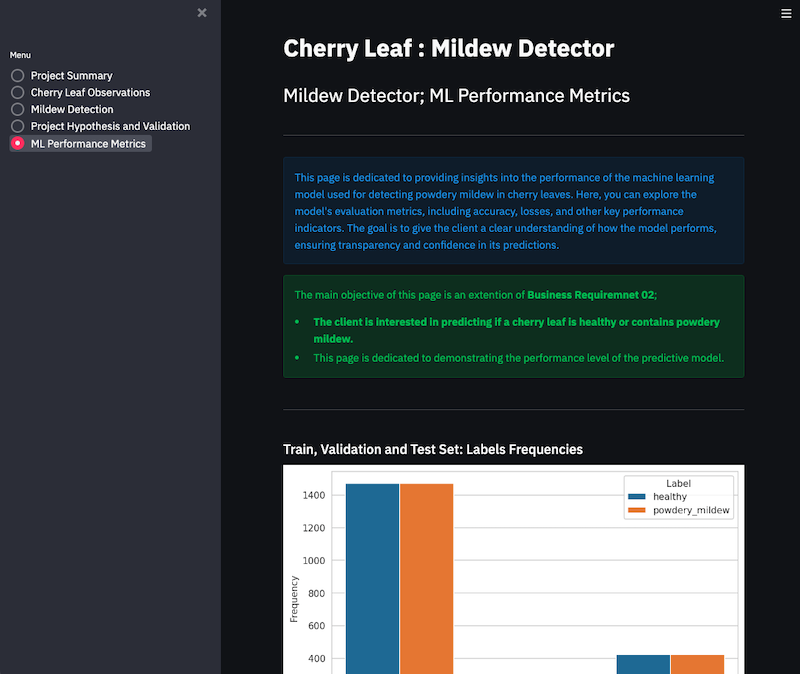
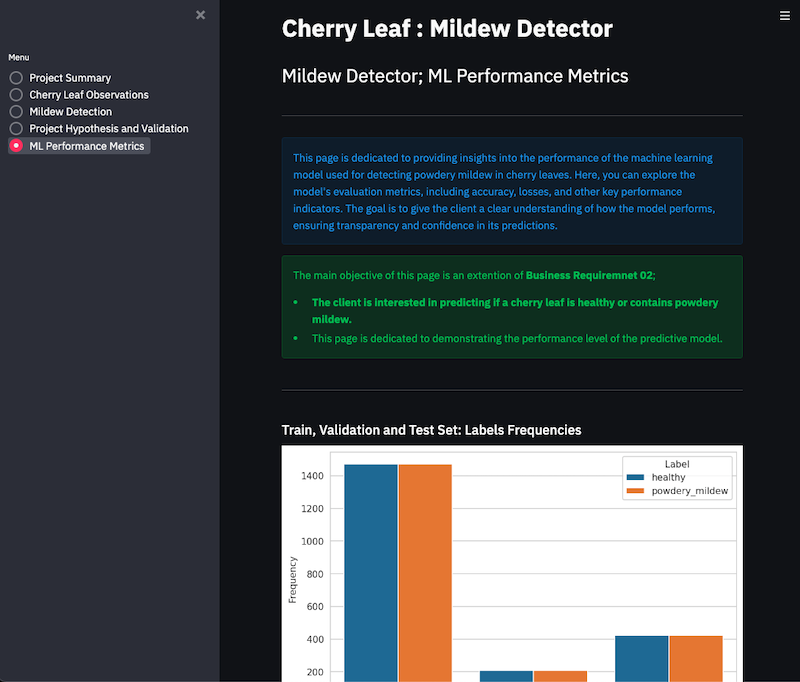
adjusting the readme file

diff --git a/app_pages/page_ml_performance.py b/app_pages/page_ml_performance.py
@@ -28,6 +28,15 @@ def page_ml_performance_metrics():
 
     labels_distribution = plt.imread(f"outputs/{version}/labels_distribution.png")
     st.image(labels_distribution, caption='Labels Distribution on Train, Validation and Test Sets')
+    st.warning(
+        f"The graph displays the distribution of labels across the train, validation, and test sets. Specifically:\n"
+        f"* **Train Set**: 1472 images of healthy cherry leaves and 1472 images of cherry leaves with powdery mildew.\n"
+        f"* **Validation Set**: 210 images of healthy cherry leaves and 210 images of cherry leaves with powdery mildew.\n"
+        f"* **Test Set**: 422 images of healthy cherry leaves and 422 images of cherry leaves with powdery mildew.\n\n"
+        f"This data distribution ensures a balanced representation of both classes across all datasets, with an equal ratio of healthy "
+        f"to infected images in each set, which is crucial for training and evaluating the performance of the model effectively."
+    )
+
     st.write("---")
 
 
@@ -36,9 +45,21 @@ def page_ml_performance_metrics():
     with col1: 
         model_acc = plt.imread(f"outputs/{version}/model_training_acc.png")
         st.image(model_acc, caption='Model Training Accuracy')
+        st.warning(
+        f"* The graph displays the model's **Training Accuracy** over epochs.\n" 
+        f"* Note that while the overall accuracy might seem high, there is evidence of fluxenation in the data.\n"
+        f"* This fluctuation is more thoroughly discussed in the '**7.0 - Unfixed Bugs**' section "
+        f"of the README file, which can be found [here](https://github.com/GabrielH-02/Mildew-Detection-CL)."
+        )
     with col2:
         model_loss = plt.imread(f"outputs/{version}/model_training_losses.png")
         st.image(model_loss, caption='Model Training Losses')
+        st.warning(
+        f"* The graph illustrates the **Training Losses** throughout the training process.\n"
+        f"* Similar to the accuracy graph, there is a noticeable fluxenation in the data.\n"
+        f"* Detailed explanations about these variations can be found in the '**7.0 - Unfixed Bugs**' section "
+        f"of the README file, available [here](https://github.com/GabrielH-02/Mildew-Detection-CL)."
+        )
     st.write("---")
 
     st.write("### Generalised Performance on Test Set")

diff --git a/README.md b/README.md
@@ -1,8 +1,8 @@
-# **Mildrew Detection:** Cherry Leaves
+# **Mildew Detection: Cherry Leaves**
 
-The **Mildew Detection**: Cherry Leaves, app is designed to determine the health status of cherry leaves by identifying whether they are healthy or infected with powdery mildew. By analyzing an image of a cherry leaf, the app provides a prediction regarding its condition.
+The **Mildew Detection: Cherry Leaves** app determines the health status of cherry leaves by identifying whether they are healthy or infected with powdery mildew. By analyzing an image of a cherry leaf, the app provides a prediction regarding its condition.
 
-This application is powered by a supervised machine learning model that employs single-label binary classification. The binary classifier is used to categorize the leaf as either healthy or infected with powdery mildew based on the image analysis.
+This application is powered by a supervised machine learning model that employs single-label binary classification. The binary classifier categorizes the leaf as either healthy or infected with powdery mildew based on the image analysis.
 
 ![responsive-image](documentation/00-responsive-design.png)
 
@@ -10,47 +10,46 @@ The project can be viewed live [here]()
 
 ## 1.0 - Dataset Content
 
-- The dataset is sourced from [Kaggle](https://www.kaggle.com/codeinstitute/cherry-leaves). This dataset was provided by Code Institute. 
-- The dataset contains +4 thousand images taken from the client's crop fields. The images show healthy cherry leaves and cherry leaves that have powdery mildew, a fungal disease that affects many plant species. The cherry plantation crop is one of the finest products in their portfolio, and the company is concerned about supplying the market with a compromised quality product.
+- The dataset is sourced from [Kaggle](https://www.kaggle.com/codeinstitute/cherry-leaves). This dataset was provided by Code Institute.
+- The dataset contains over 4,000 images from the client's crop fields, depicting both healthy cherry leaves and those infected with powdery mildew—a fungal disease affecting many plant species. The cherry plantation crop is one of the finest products in their portfolio, and the company is concerned about supplying the market with a compromised-quality product.
 
 ## 2.0 - Business Requirements
 
-The cherry plantation crop from Farmy & Foods is facing a challenge where their cherry plantations have been presenting powdery mildew. Currently, the process is manual verification if a given cherry tree contains powdery mildew. An employee spends around 30 minutes in each tree, taking a few samples of tree leaves and verifying visually if the leaf tree is healthy or has powdery mildew. If there is powdery mildew, the employee applies a specific compound to kill the fungus. The time spent applying this compound is 1 minute. The company has thousands of cherry trees located on multiple farms across the country. As a result, this manual process is not scalable due to the time spent in the manual process inspection.
+Farmy & Foods' cherry plantations are facing a challenge with the presence of powdery mildew. Currently, the process involves manual verification to determine if a given cherry tree contains powdery mildew. An employee spends around 30 minutes per tree taking a few samples of leaves and visually verifying if the tree is healthy or has powdery mildew. If powdery mildew is detected, the employee applies a specific compound to eliminate the fungus, which takes about a minute. The company has thousands of cherry trees located on multiple farms across the country. As a result, this manual process is not scalable due to the time spent on inspection.
 
-To save time in this process, the IT team suggested an ML system that detects instantly, using a leaf tree image, if it is healthy or has powdery mildew. A similar manual process is in place for other crops for detecting pests, and if this initiative is successful, there is a realistic chance to replicate this project for all other crops. The dataset is a collection of cherry leaf images provided by Farmy & Foods, taken from their crops.
+To save time in this process, the IT team suggested an ML system that detects instantly, using an image of the leaf, whether it is healthy or has powdery mildew. A similar manual process is in place for other crops for detecting pests, and if this initiative is successful, there is a realistic chance to replicate this project for all other crops. The dataset is a collection of cherry leaf images provided by Farmy & Foods, taken from their crops.
 
-- 1 - The client is interested in conducting a study to visually differentiate a healthy cherry leaf from one with powdery mildew.
-- 2 - The client is interested in predicting if a cherry leaf is healthy or contains powdery mildew.
+1. **The client is interested in conducting a study to visually differentiate a healthy cherry leaf from one with powdery mildew.**
+2. **The client is interested in predicting if a cherry leaf is healthy or contains powdery mildew.**
 
 ## 3.0 - Hypothesis and Validation
 
 ### 3.1 - Hypothesis
 
-We suspect that cherry leaves infected with powdery mildew have distinct visual characteristics, such as a white powdery appearance, that differentiate them from healthy leaves.
+We hypothesize that cherry leaves infected with powdery mildew exhibit distinct visual characteristics, such as a white, powdery appearance, differentiating them from healthy leaves.
 
 ### 3.2 - How to Validate?
 
-- By applying a study showing how to visually differentiate a cherry leaf that is healthy from one that contains powdery mildew.
-- As well as the capability to predict if a cherry leaf is healthy or contains powdery mildew.
+- By conducting a study that shows how to visually differentiate a healthy cherry leaf from one that contains powdery mildew.
+- By assessing the capability to predict if a cherry leaf is healthy or contains powdery mildew.
 
-An Image Montage indicates that infected leaves typically display a white, powdery surface. Studies involving Average Image, Variability Image, and Difference between Averages analyses
-are expected to reveal distinguishing patterns that differentiate healthy leaves from those affected by powdery mildew.
+An image montage suggests that infected leaves typically show a white, powdery surface. Studies involving average image analysis, variability analysis, and differences between averages are expected to reveal patterns that distinguish healthy leaves from those affected by powdery mildew.
 
-## 4.0 - The rationale to map the business requirements to the Data Visualisations and ML tasks
+## 4.0 - The Rationale for Mapping the Business Requirements to Data Visualizations and ML Tasks
 
-### 4.1 - Business Requirements Rationales 
+### 4.1 - Business Requirements Rationale
 
 **Business Requirement 1:** The client is interested in conducting a study to visually differentiate a healthy cherry leaf from one with powdery mildew.
 
-This requirement is focused on visual analysis, involving the creation of various data visualisations. Tasks include data collection, image analysis, and generating visual representations to help the client observe differences between healthy and infected leaves. Therefore this requirement can be labelled as **Data Visualization**.
+This requirement is focused on visual analysis, involving the creation of various data visualizations. Tasks include data collection, image analysis, and generating visual representations to help the client observe differences between healthy and infected leaves. Therefore, this requirement can be labeled as **Data Visualization**.
 
 **Business Requirement 2:** The client is interested in predicting if a cherry leaf is healthy or contains powdery mildew.
 
-This requirement targets predictive modelling, which involves machine learning. Tasks related to this include developing and training a classification model, optimising it for accuracy, and validating its performance to ensure accurate predictions as per the client's needs. Therefore this requirement can be labelled as **Classification**.
+This requirement targets predictive modeling, which involves machine learning. Tasks related to this include developing and training a classification model, optimizing it for accuracy, and validating its performance to ensure accurate predictions as per the client's needs. Therefore, this requirement can be labeled as **Classification**.
 
 ### 4.2 - Epics and Tasks
 
-As a collective of these two objectives, the project can be broken down into five different epics, which are listed below with an addition of tasks which need to be done for each epic.
+As a collective of these two objectives, the project can be broken down into five different epics, which are listed below along with the tasks that need to be completed for each epic.
 
 #### 4.2.1 - Information Gathering and Data Collection
 
@@ -60,7 +59,7 @@ This epic focuses on understanding the client's needs and gathering the necessar
 
 #### 4.2.2 - Data Visualization, Cleaning, and Preparation
 
-This epic deals with processing the gathered data to ensure it is properly prepared for effective modelling. It is also focused on **Data Visualization**.
+This epic deals with processing the gathered data to ensure it is properly prepared for effective modeling. It is also focused on **Data Visualization**.
 
 - **Task 2:** Analyze the data to ensure each image is the same size. Split the dataset into training, testing, and validation sets.
 - **Task 3:** Create visual data representations for the client, including average images, variability images, and image montages (for both healthy and infected leaves). Completing this task will satisfy **Business Requirement 1**.
@@ -69,14 +68,14 @@ This epic deals with processing the gathered data to ensure it is properly prepa
 
 This epic is concerned with the model, ensuring it meets the necessary standards and can classify whether a leaf image is infected with powdery mildew. It is focused on the **Classification** objective.
 
-- **Task 4:** Develop and train a classification neural network on the provided dataset. Optimise the model to achieve a minimum accuracy of at least 97%.
-- **Task 5:** Validate the model and analyse its performance, ensuring it meets the client's goals and requirements.
+- **Task 4:** Develop and train a classification neural network on the provided dataset. Optimize the model to achieve a minimum accuracy of at least 97%.
+- **Task 5:** Validate the model and analyze its performance, ensuring it meets the client's goals and requirements.
 
 #### 4.2.4 - Dashboard Planning, Design, and Development
 
 This epic addresses how the observations and predictive interface will be presented to the client, with a focus on both **Data Visualization** and **Classification**. It leans more towards Data Visualization but also includes the creation of an interface for leaf health prediction.
 
-- **Task 6:** Design and develop a dashboard using Streamlit, meeting the client's requirements. The dashboard should include a project summary, hypothesis, machine learning performance metrics, leaf observations, and an interactive predictive interface for testing. It should fulfil both business requirements and be sufficiently interactive.
+- **Task 6:** Design and develop a dashboard using Streamlit, meeting the client's requirements. The dashboard should include a project summary, hypothesis, machine learning performance metrics, leaf observations, and an interactive predictive interface for testing. It should fulfill both business requirements and be sufficiently interactive.
 
 #### 4.2.5 - Dashboard Deployment and Release
 
@@ -84,56 +83,58 @@ This epic focuses on the deployment and execution of the project, ensuring that 
 
 - **Task 7:** Deploy the dashboard to an appropriate hosting platform (such as Heroku) so that the client can access the project. Ensure that access to the dashboard is restricted to the client, in compliance with the NDA.
 
-
 ## 5.0 - ML Business Case
 
 ### 5.1 - Business Objectives
 
 Farmy & Foods aims to enhance the quality assurance process of their cherry plantations by addressing the challenge of powdery mildew found on the cherry leaves, which affects their crops. As established, there are two business requirements; however, here are the key business objectives for this machine learning (ML) project:
 
-1. **Automate Mildew Detection**: Reduce dependency on manual labour for inspecting cherry leaves by implementing an automated solution that uses machine learning to detect powdery mildew.
+1. **Automate Mildew Detection:** Reduce dependency on manual labor for inspecting cherry leaves by implementing an automated solution that uses machine learning to detect powdery mildew.
 
-2. **Improve Crop Quality**: Ensure that only healthy, mildew-free cherries reach the market, thereby maintaining the brand's reputation for quality and reducing the risk of customer dissatisfaction.
+2. **Improve Crop Quality:** Ensure that only healthy, mildew-free cherries reach the market, thereby maintaining the brand's reputation for quality and reducing the risk of customer dissatisfaction.
 
-3. **Optimise Operational Efficiency**: Streamline the inspection process across multiple farms, saving time and resources while improving scalability.
+3. **Optimize Operational Efficiency:** Streamline the inspection process across multiple farms, saving time and resources while improving scalability.
 
 ### 5.2 - Business Benefits
 
 Based on meeting the Business Objectives, the successful implementation of this ML project is expected to deliver the following business benefits:
 
-1. **Increased Productivity**: Automating the inspection process will allow Farmy & Foods to monitor more trees in less time, freeing up employees to focus on other critical tasks.
+1. **Increased Productivity:** Automating the inspection process will allow Farmy & Foods to monitor more trees in less time, freeing up employees to focus on other critical tasks.
 
-2. **Cost Reduction**: By reducing the need for extensive manual inspections and minimising crop loss due to undetected mildew, the company will achieve significant cost savings.
+2. **Cost Reduction:** By reducing the need for extensive manual inspections and minimizing crop loss due to undetected mildew, the company will achieve significant cost savings.
 
-3. **Enhanced Decision-Making**: The data-driven approach will provide actionable insights, allowing Farmy & Foods to make informed decisions about crop management and mildew prevention.
+3. **Enhanced Decision-Making:** The data-driven approach will provide actionable insights, allowing Farmy & Foods to make informed decisions about crop management and mildew prevention.
 
-4. **Market Differentiation**: Ensuring that only the highest-quality produce reaches the market will strengthen the company’s position as a premium brand, enhancing customer trust and loyalty.
+4. **Market Differentiation:** Ensuring that only the highest-quality produce reaches the market will strengthen the company’s position as a premium brand, enhancing customer trust and loyalty.
 
 ### 5.3 - Business Risks and Mitigation
 
 #### Risk 1: Model Accuracy and Reliability
-- **Risk**: The ML model may not achieve the desired level of accuracy (97%), leading to incorrect classifications of cherry leaves and potential crop losses.
+- **Risk:** The ML model may not achieve the desired level of accuracy (97%), leading to incorrect classifications of cherry leaves and potential crop losses.
 
-- **Mitigation**: To mitigate this risk, rigorous model validation and tuning will be undertaken, including cross-validation and testing on unseen data. The model will only be deployed once it consistently meets or exceeds the 97% accuracy threshold.
+- **Mitigation:** To mitigate this risk, rigorous model validation and tuning will be undertaken, including cross-validation and testing on unseen data. The model will only be deployed once it consistently meets or exceeds the 97% accuracy threshold.
 
 #### Risk 2: Resistance to Technological Change
-- **Risk**: Employees may resist adopting the new technology due to unfamiliarity with machine learning and fear of job displacement.
+- **Risk:** Employees may resist adopting the new technology due to unfamiliarity with machine learning and fear of job displacement.
 
-- **Mitigation**: Comprehensive training programmes and workshops will be provided to ensure employees are comfortable using the new system. Emphasising the role of technology in augmenting rather than replacing human labour will help ease the transition.
+- **Mitigation:** Comprehensive training programs and workshops will be provided to ensure employees are comfortable using the new system. Emphasizing the role of technology in augmenting rather than replacing human labor will help ease the transition.
 
 #### Risk 3: Data Privacy and Security
-- **Risk**: The data provided by the client is under an NDA (Non-Disclosure Agreement), which imposes strict limitations on data sharing and usage.
+- **Risk:** The data provided by the client is under an NDA (Non-Disclosure Agreement), which imposes strict limitations on data sharing and usage.
 
-- **Mitigation**: Access to the data will be restricted to authorised personnel only. All project participants will be briefed on the NDA terms, and data handling protocols will be established to ensure compliance with the agreement.
+- **Mitigation:** Access to the data will be restricted to authorized personnel only. All project participants will be briefed on the NDA terms, and data handling protocols will be established to ensure compliance with the agreement.
 
 #### Risk 4: Model Deployment and Integration
-- **Risk**: The model’s large size, due to high-resolution images, may complicate deployment and integration into existing systems.
+- **Risk:** The model's large size, resulting from high-resolution images, may complicate deployment and integration into existing systems.
 
-- **Mitigation**: Image resolution will be adjusted to balance model performance and size. Additionally, Git LFS (Large File Storage) will be used for managing large files, ensuring smooth integration and deployment.
+- **Mitigation:** To address this risk, optimization techniques such as model compression and efficient deployment strategies will be employed. A thorough deployment plan will be developed to ensure seamless integration with the client's existing systems.
 
 ### 5.4 - Conclusion
 
-The proposed ML solution for detecting powdery mildew in cherry leaves represents a strategic investment in Farmy & Foods’ operational efficiency and product quality. By achieving automation in mildew detection, the company stands to gain significant competitive advantages, including cost savings, improved productivity, and enhanced market reputation. Careful consideration of risks and their mitigation will ensure the project’s success, delivering long-term value to the business.
+The **Mildew Detection: Cherry Leaves** project aims to provide an efficient and reliable solution for detecting powdery mildew on cherry leaves. By automating the inspection process and leveraging machine learning, the project seeks to enhance crop quality, improve operational efficiency, and deliver significant business benefits to Farmy & Foods. Careful risk assessment and mitigation strategies will ensure the project's success, delivering long-term value to the business.
+
+
+
 
 
 ## 6.0 - Dashboard Design and Outcome 
@@ -146,7 +147,7 @@ This page is divided into four sections that collectively provide a comprehensiv
 
 - **General Information**
     - Powdery mildew is a fungal disease affecting the cherry plantations at Farmy & Foods, posing a threat to the quality of their produce.
-    - The current process involves manually inspecting each cherry tree by visually examining leaf samples. An employee spends around 30 minutes per tree for inspection and an additional minute if treatment is needed.
+    - The current process involves manually inspecting each cherry tree by visually examining leaf samples. An employee spends around 30 minutes per tree for inspection, with an additional minute required if treatment is needed.
     - Due to the extensive number of cherry trees across multiple farms, this manual inspection process is not scalable.
     - The IT team suggests implementing a machine learning system using a neural network model to accurately classify images of cherry leaves as either healthy or infected with powdery mildew.
 
@@ -188,12 +189,11 @@ This page consists of three sections that provide insights into the visualizatio
 ![outcome-observations-page-02](documentation/03-outcome-observations-page-02.png)
 ![outcome-observations-page-03](documentation/04-outcome-observations-page-03.png)
 ![outcome-observations-page-04](documentation/05-outcome-observations-page-04.png)
-![outcome-observations-page-04](documentation/06-outcome-observations-page-05.png)
-
+![outcome-observations-page-05](documentation/06-outcome-observations-page-05.png)
 
 ### 6.3 - Page 3: Mildew Detector
 
-#### 6.3.1 = Page Design
+#### 6.3.1 - Page Design
 
 This page contains three sections that together provide user interaction and a predictive interface to assess the health status of cherry leaves. The primary purpose of this page is to determine whether a cherry leaf is healthy or infected with powdery mildew, thereby addressing **Business Requirement 2**. The sections are:
 
@@ -209,7 +209,7 @@ This page contains three sections that together provide user interaction and a p
     - A table showing the image name and prediction results.
     - A download button to export the results table.
 
-#### 6.3.2 = Page Outcome
+#### 6.3.2 - Page Outcome
 
 ![outcome-mildew-dect-page-01](documentation/07-outcome-mildew-dect-page-01.png)
 ![outcome-mildew-dect-page-02](documentation/08-outcome-mildew-dect-page-02.png)
@@ -249,6 +249,9 @@ This page is divided into two sections that provide informative and insightful p
 ![outcome-ml-perfom-page-01](documentation/11-outcome-ml-perfom-page-01.png)
 ![outcome-ml-perfom-page-02](documentation/12-outcome-ml-perfom-page-02.png)
 ![outcome-ml-perfom-page-03](documentation/13-outcome-ml-perfom-page-03.png)
+![outcome-ml-perfom-page-03](documentation/14-outcome-ml-perfom-page-04.png)
+
+
 
 ## 7.0 - Unfixed Bugs
 
@@ -262,50 +265,59 @@ This page is divided into two sections that provide informative and insightful p
 - **Model Architecture**: The model’s design might not fit the task well.
 - **Data Quality**: Problems with data quality or processing could be affecting the model's learning.
 
-**Current Status**: The exact cause of this issue is not yet clear. I am currently checking the model's settings, learning rate, design, and data handling to fix this problem.
+**Current Status**: The exact cause of this issue is not yet clear. I am currently checking the model's settings, learning rate, design, and data handling to resolve this problem.
 
 ### Other Unfixed Bugs
 
-- **Current Status**: At this time, no additional bugs or issues have been identified in the project beyond those already mentioned. The project appears to be functioning as expected with no further known problems.
+**Current Status**: At this time, no additional bugs or issues have been identified in the project beyond those already mentioned. The project appears to be functioning as expected with no further known problems.
 
 ## 8.0 - Deployment
 
 ### Heroku
 
-- The App live link is: ``
-- Set the runtime.txt Python version to a [Heroku-20](https://devcenter.heroku.com/articles/python-support#supported-runtimes) stack currently supported version.
-- The project was deployed to Heroku using the following steps.
+- The app live link is: [Here]()
+- Set the `runtime.txt` Python version to a [Heroku-20](https://devcenter.heroku.com/articles/python-support#supported-runtimes) stack currently supported version.
+- The project was deployed to Heroku using the following steps:
 
-1. Log in to Heroku and create an App
-2. At the Deploy tab, select GitHub as the deployment method.
-3. Select your repository name and click Search. Once it is found, click Connect.
+1. Log in to Heroku and create an app.
+2. On the Deploy tab, select GitHub as the deployment method.
+3. Enter your repository name and click Search. Once it is found, click Connect.
 4. Select the branch you want to deploy, then click Deploy Branch.
-5. The deployment process should happen smoothly if all deployment files are fully functional. Click the button Open App on the top of the page to access your App.
-6. If the slug size is too large, then add large files not required for the app to the .slugignore file.
+5. The deployment process should happen smoothly if all deployment files are fully functional. Click the Open App button at the top of the page to access your app.
+6. If the slug size is too large, add large files not required for the app to the `.slugignore` file.
+
 
 ## 9.0 - Main Data Analysis and Machine Learning Libraries
 
-- **Numpy**: This library is essential for numerical computing in Python. In the mildew detection project, NumPy is used to handle arrays, perform mathematical operations on image data, and manage the underlying data structures that support the machine learning models used to classify cherry leaves.
+This project leverages several key libraries for data analysis, visualization, and machine learning:
 
-- **Pandas**: Pandas is crucial for data manipulation and analysis. In this project, Pandas is employed to organise, clean, and preprocess the cherry leaf dataset, which includes images labeled as healthy or infected with powdery mildew. This ensures the data is in the right format before being fed into the machine learning models.
-
-- **Matplotlib & Seaborn**: These libraries are used for creating visualisations to better understand the dataset and the model's performance. In the context of mildew detection, Matplotlib and Seaborn are used to generate visual comparisons between healthy and mildew-infected cherry leaves, as well as to plot model accuracy, loss curves, and other key metrics that inform the effectiveness of the detection system.
-
-- **Scikit-learn**: Scikit-learn plays a key role in the machine learning pipeline for this project. It is used to split the cherry leaf dataset into training and testing sets, evaluate model performance, and apply cross-validation techniques to ensure the model reliably distinguishes between healthy and infected leaves.
-
-- **TensorFlow & Keras**: TensorFlow, with its Keras API, is used to build and train the neural network that powers the mildew detection system. In this project, TensorFlow and Keras enable the development of a deep learning model that can accurately classify images of cherry leaves as either healthy or infected with powdery mildew, meeting the project's objective of automating the detection process.
+- **NumPy**: Used for numerical computations and handling large, multi-dimensional arrays and matrices.
+- **Pandas**: Employed for data manipulation and analysis, providing data structures and operations to manipulate numerical tables and time series.
+- **Matplotlib**: A plotting library used to create static, animated, and interactive visualizations.
+- **Seaborn**: Built on top of Matplotlib, this library is used for making statistical graphics with improved aesthetic design and functionality.
+- **Plotly**: Utilized for creating interactive plots and visualizations that can be embedded into web applications.
+- **Streamlit**: A framework for building and deploying data-driven applications, particularly useful for creating interactive dashboards.
+- **Scikit-learn**: A machine learning library that provides simple and efficient tools for data mining and data analysis, including classification, regression, clustering, and more.
+- **TensorFlow**: An open-source library developed by Google for deep learning and neural network-based tasks.
 
 ## 10.0 - Credits
 
-<!-- - In this section, you need to reference where you got your content, media and from where you got extra help. It is common practice to use code from other repositories and tutorials. However, it is necessary to be very specific about these sources to avoid plagiarism.
-- You can break the credits section up into Content and Media, depending on what you have included in your project. -->
-
 ### 10.1 - Content
 
-<!-- - The text for the Home page was taken from Wikipedia Article A.
-- Instructions on how to implement form validation on the Sign-Up page were taken from [Specific YouTube Tutorial](https-//www.youtube.com/).
-- The icons in the footer were taken from [Font Awesome](https://fontawesome.com/). -->
+- [Code Institute; **Coursework**](https://learn.codeinstitute.net/courses/course-v1:code_institute+CI_DA_ML+2021_Q4/courseware/d186ae95191f48e9a2151559c7e6f85d/771e4d181ce0413c87572c1baa903190/): The knowledge gained from the coursework, particularly from the [Data Analytics And Machine Learning](https://learn.codeinstitute.net/courses/course-v1:code_institute+CI_DA_ML+2021_Q4/courseware/d186ae95191f48e9a2151559c7e6f85d/771e4d181ce0413c87572c1baa903190/) module, was instrumental in understanding the concepts required for this project. Additionally, the basics of understanding **Streamlit** and **Jupyter Notebooks** were significantly enhanced by the content from [Introduction to Predictive Analytics And Machine Learning](https://learn.codeinstitute.net/courses/course-v1:CodeInstitute+PA101+2021_Q4/courseware/e30c43d88866496180a8adc30536585d/426641895288496383e39a1c50f5a8b2/).
 
-### 10.2 - Acknowledgements (optional)
+- [Code Institute: **Handbook: Mildew Detection in Cherry Leaves**](https://learn.codeinstitute.net/courses/course-v1:CodeInstitute+PA_PAGPPF+2021_Q4/courseware/bde016cdbd184cdeafd341a73807e138/bd2104eb84de4e48a9df6f685773cbf2/): This handbook was extremely helpful in developing my project, as it provided the original idea, the business requirements, and all the information about the client and the expectations for this dashboard project. Additionally, the provided Kaggle dataset, which can be found [here](https://www.kaggle.com/datasets/codeinstitute/cherry-leaves?select=cherry-leaves), was essential for the project's success.
 
-<!-- - Thank the people who provided support throughout this project. -->
+- [Code Institute: **Malaria Detector**](https://learn.codeinstitute.net/courses/course-v1:code_institute+CI_DA_ML+2021_Q4/courseware/07a3964f7a72407ea3e073542a2955bd/29ae4b4c67ed45a8a97bb9f4dcfa714b/): This project was a great help in developing my own project as it effectively visualized how a Machine Learning project comes together. The design and code assisted in the creation of this project, helping to adapt it to the client's requirements and needs.
+
+- [Code Institute; **Mildew Detection Template**](https://github.com/Code-Institute-Solutions/milestone-project-mildew-detection-in-cherry-leaves): This repository was crucial in assisting with this project, as it served as the foundation upon which my project was built.
+
+- [Patrick Loeber; YouTube Channel](https://www.youtube.com/@patloeber): This YouTube channel was particularly helpful for understanding how to fit a model and structure a Streamlit project. The videos that were most beneficial to me include [Build A Machine Learning Web App From Scratch](https://www.youtube.com/watch?v=xl0N7tHiwlw) and [5 Machine Learning BEGINNER Projects (+ Datasets & Solutions)](https://www.youtube.com/watch?v=bYSeGBOLzqw).
+
+- [Streamlit Documentation](https://docs.streamlit.io/): This was an invaluable resource in developing a Streamlit dashboard application.
+
+### 10.2 - Acknowledgements
+
+- I would like to acknowledge Code Institute for providing me with the necessary information and resources to develop this project, as well as my four previous projects.
+- A special thanks to the Code Institute Tutor Support Team, who assisted me during the challenges I faced with this project.
+- I appreciate my mentor, **Precious Ijege**, for his help and guidance on this project.
